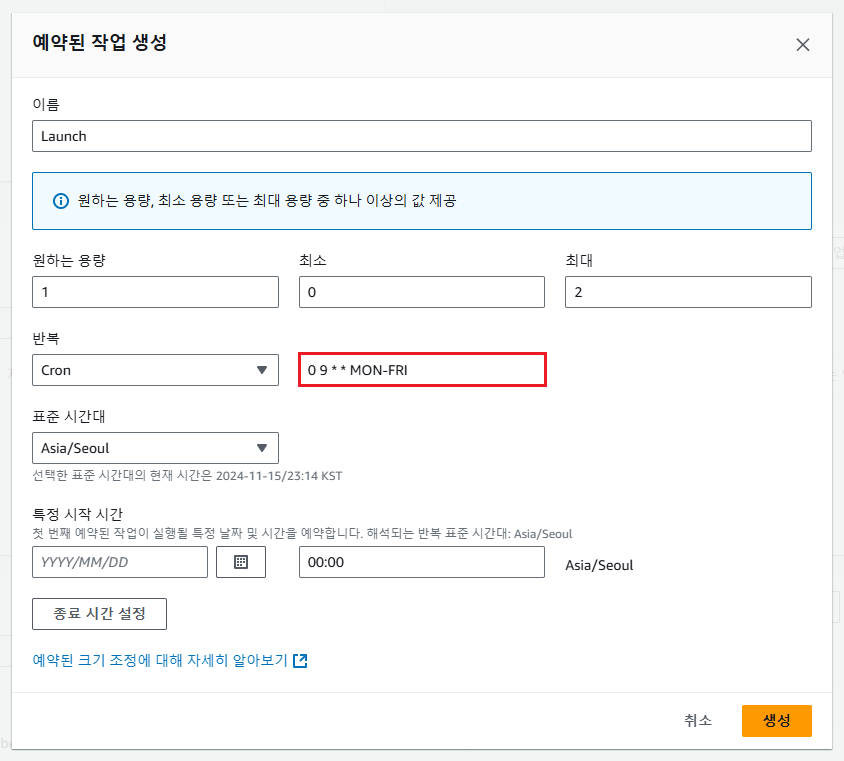
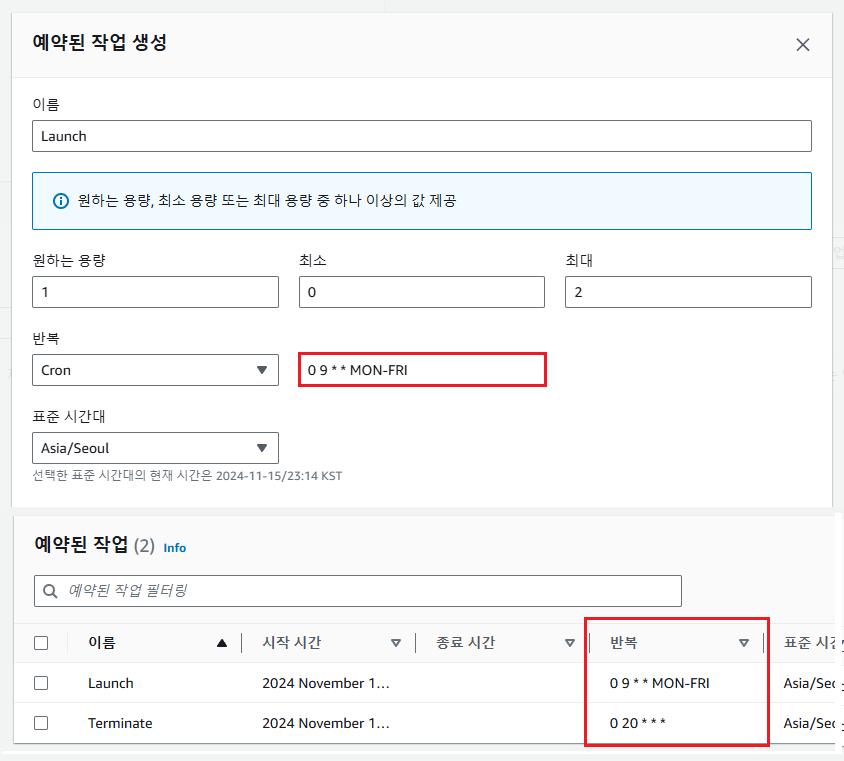
title: Amazon ECS 스케줄링

diff --git a/source/_posts/aws-ecs-scheduling.md b/source/_posts/aws-ecs-scheduling.md
@@ -1,40 +1,44 @@
 ---
 title: Amazon ECS 스케줄링
-date: 2024-11-16T01:00+09:00
+date: 2024-11-18T15:00+09:00
 tags:
 - Amazon ECS
 - Amazon EC2 Auto Scaling
 - Amazon EventBridge Scheduler
 ---
 
-Amazon ECS 클러스터로 운용되는 서비스를 평일 업무 시간에만 실행하고 일과 이외의 시간이나 주말에는 종료하고 싶다. 기존에 EC2 인스턴스로 직접 구성한 스테이징 환경에 대해서는 [AWS Instance Scheduler 솔루션](https://www.youtube.com/watch?v=amL-kQOV0Go)에 따라 CloudFormation 으로 시작하고 종료하도록 만들어둔 것 같다. Amazon ECS 클러스터로 구성되는 오토스케일링 그룹의 EC2 인스턴스와 서비스는 어떻게 조정할 수 있을까?
+Amazon EventBrdige 스케줄러를 사용하여 Amazon ECS 클러스터로 운용되는 서비스와 EC2 인스턴스의 규모를 조정할 수 있다. 예를 들어, [AWS Instance Scheduler 솔루션](https://www.youtube.com/watch?v=amL-kQOV0Go)로 스테이징이나 테스트 환경에 대한 EC2 인스턴스들을 평일 업무 시간에만 실행되도록 시작, 종료 스케줄링을 수행할 수 있다. Amazon ECS의 [예약된 작업](https://docs.aws.amazon.com/ko_kr/AmazonECS/latest/developerguide/tasks-scheduled-eventbridge-scheduler.html)으로는 특정 태스크를 일정 시간에 시작할 순 있으나 종료할 순 없다. 이러한 경우 [Application Auto Scaling](https://docs.aws.amazon.com/ko_kr/AmazonECS/latest/developerguide/service-auto-scaling.html)을 활용해야하고 AWS CLI를 대신하여 일정 기반으로 실행하기 위한 방법이 바로 Amazon EventBridge 스케줄러 이다.
 
 #### 오토스케일링 그룹의 예약된 작업
 
+Amazon EventBridge 스케줄러로 오토스케일링 그룹의 EC2 인스턴스 용량을 조정할 수 있다. 그전에 오토스케일링 그룹에 대한 콘솔에서 자체적으로 제공하는 예약된 작업에 대해서 알아보자. EC2 용량 공급자로 사용중인 오토스케일링 그룹의 자동 확장 기능으로 [예약된 작업을 정의](https://docs.aws.amazon.com/ko_kr/autoscaling/ec2/userguide/ec2-auto-scaling-scheduled-scaling.html)하면 크론 표현식에 의해 평일 업무 시간을 위한 서비스 환경을 실행할 수 있다. 스테이징 또는 테스트 환경은 개발자 또는 테스트 엔지니어가 필요하지 않은 시간에는 종료하여 잉여 시간에 대한 요금을 줄여갈 수 있다.
+
 ![](/images/posts/aws-ecs-scheduling/01.png)
+
+다만, 오토스케일링 그룹 콘솔에서 제공하는 예약된 작업으로 만들어지는 스케줄은 일시적으로 비활성화하지 못하는 단점이 있고, ECS 클러스터에서 EC2 인스턴스에 실행되고 있는 서비스가 있는 경우 ecs-managed-draining-termination-hook 수명 주기 후크의 제한 시간(기본값 3,600초)으로 인해 오토스케일링 그룹의 예약된 작업에 의해 종료되지 않고 기다릴 수 있다. 
+
+##### 🔥 TaskFailedToStart: EMPTY CAPACITY PROVIDER
+
+오토스케일링 그룹의 예약된 작업으로 EC2 인스턴스가 강제로 종료된 경우 서비스로 실행되는 태스크는 새롭게 만들어지며 지속적으로 프로비저닝을 수행할 수 있다. 
+
+#### Amazon EventBridge 스케줄러로 오토스케일링 그룹 조정
+
 ![](/images/posts/aws-ecs-scheduling/02.png)
 
-EC2 용량 공급자로 사용중인 오토스케일링 그룹의 자동 확장 기능으로 [예약된 작업을 정의](https://docs.aws.amazon.com/ko_kr/autoscaling/ec2/userguide/ec2-auto-scaling-scheduled-scaling.html)하면 크론 표현식에 의해 평일 업무 시간을 위한 서비스 환경을 실행할 수 있다. 스테이징 또는 테스트 환경은 개발자 또는 테스트 엔지니어가 필요하지 않은 시간에는 종료하여 잉여 시간에 대한 요금을 줄여갈 수 있다.
-
-> 오토스케일링 그룹의 예약된 작업으로 EC2 인스턴스를 종료하기 위해 용량 업데이트를 수행하는 경우 ECS 클러스터에 의해 실행되고 있는 서비스의 컨테이너가 있다면, 수명 주기 후크의 ecs-managed-draining-termination-hook 로 인해 서비스가 중지될 때까지 해당 EC2 인스턴스를 종료하지 않고 기다립니다. 히트비트 제한 시간을 적당히 줄이도록 합시다.
-
-다만, 오토스케일링 그룹 콘솔에서 제공하는 예약된 작업으로 만들어지는 스케줄은 일시적으로 비활성화하지 못하는 단점이 있다. 그래서 일시적으로 스케줄을 비활성화 해야하는 경우가 있다면 Amazon EventBridge Scheduler를 통해 AWS 서비스로의 예약 일정을 정의하는 것이 좋아보인다.
-
-#### Amazon EventBridge Scheduler 일정 관리
-
-![](/images/posts/aws-ecs-scheduling/03.png)
-
-ECS 클러스터에서 서비스는 일정 기반의 조정을 제공해주지 않고 있으므로 [Amazon EventBridge Scheduler](https://docs.aws.amazon.com/AmazonECS/latest/developerguide/tasks-scheduled-eventbridge-scheduler.html)에서 AWS ECS 서비스 대상으로 UpdateService를 호출하여 특정 클러스터에 존재하는 서비스에 대해 DesiredCount를 설정할 수 있다. 이때, 일정에서 설정하는 크론 표현식(0 9 ? * MON-FRI *)은 오토스케일링 그룹의 예약된 작업과 다르다는 것을 주의해야한다.
+Amazon EventBridge 스케줄러에서 [EC2 Auto Scaling 서비스의 SetDesiredCapacity](https://awscli.amazonaws.com/v2/documentation/api/latest/reference/autoscaling/set-desired-capacity.html) 를 사용하여 오토스케일링 그룹에 대해 원하는 용량을 설정할 수 있다. 만약, EC2 인스턴스를 종료한 상태로 유지하고 싶다면 아래와 같이 원하는 용량이 0 이 되도록 페이로드를 작성하면 된다.
 
 ```json
-{ "Cluster": "mambo-ecs-cluster", "Service": "app-service", "DesiredCount": 0 }
+{
+  "AutoScalingGroupName": "mambo-ecs-cluster-asg",
+  "DesiredCapacity": 0
+}
 ```
 
-#### Amazon EventBridge Scheduler 이벤트 로그
+#### Amazon EventBridge 스케줄러에 대한 이벤트 로그
 
 ![](/images/posts/aws-ecs-scheduling/04.png)
 
-Amazon EventBridge Scheduler의 일정에 의해 ECS 와 EC2 서비스로 보내는 요청에 대한 이벤트를 확인하고자 하는 경우 [CloudTrail의 이벤트 기록에서 확인](https://docs.aws.amazon.com/scheduler/latest/UserGuide/logging-using-cloudtrail.html)해야한다. 아래와 같이 오토스케일링 그룹에 대한 이벤트 대상을 ECS 클러스터 이름으로 잘못 지정해서 ValidationException이 발생한 예시를 볼 수 있다.
+만약, 앞선 Amazon EventBridge 스케줄러에 의해 EC2 Auto Scaling 서비스로 오토스케일링 그룹의 용량을 줄이고자 하는데 이벤트가 동작하는지를 알기 어려운 경우 [CloudTrail의 이벤트 기록에서 확인](https://docs.aws.amazon.com/scheduler/latest/UserGuide/logging-using-cloudtrail.html)해야 한다. 예를 들어, 아래와 같이 오토스케일링 그룹에 대한 이벤트 대상을 ECS 클러스터 이름으로 잘못 지정해서 `ValidationException` 이 발생한 결과를 볼 수 있다.
 
 ```json
 {
@@ -88,9 +92,39 @@ Amazon EventBridge Scheduler의 일정에 의해 ECS 와 EC2 서비스로 보내
 }
 ```
 
+> 아무래도 Amazon ECS 에서 Amazon ECR에 대한 링크를 제공하는 것처럼 Amazon EventBridge 스케줄러 콘솔에서도 Amazon CloudTrail 에 대한 링크를 제공해주면 좋을 것 같습니다.
+
+#### Amazon EventBridge 스케줄러로 서비스 규모 조정
+
+![](/images/posts/aws-ecs-scheduling/03.png)
+
+```json
+{
+  "Cluster": "mambo-ecs-cluster",
+  "Service": "app-service",
+  "DesiredCount": 0
+}
+```
+
+EC2 인스턴스의 시작과 종료에 대한 일정을 구성했다면 이제 [Amazon EventBridge 스케줄러](https://docs.aws.amazon.com/AmazonECS/latest/developerguide/tasks-scheduled-eventbridge-scheduler.html)에서 Amazon ECS 서비스 대상으로 UpdateService를 호출하여 특정 클러스터에 존재하는 서비스에 대해 DesiredCount를 설정하여 서비스에 대한 규모를 조정해보도록 하자.
+
+##### Application Auto Scaling 로 서비스 규모 조정
+
+Amazon ECS 서비스가 아닌 Application Auto Scaling 서비스의 [register-scalable-target](https://docs.aws.amazon.com/ko_kr/cli/latest/userguide/cli_application-auto-scaling_code_examples.html)를 호출하여 동일한 동작을 수행할 수 있다.
+
+```json
+{
+  "ResourceId": "service/mambo-ecs-cluster/app-service",
+  "ScalableDimension": "ecs:service:DesiredCount",
+  "ServiceNamespace": "ecs",
+  "MinCapacity": 0,
+  "MaxCapacity": 0
+}
+```
+
 #### Amazon EventBridge Scheduler IAM 역할
 
-[Amazon ECS EventBridge IAM 역할](https://docs.aws.amazon.com/ko_kr/AmazonECS/latest/developerguide/CWE_IAM_role.html)를 참고하여 Amazon EventBridge Scheduler 에서 Amazon ECS 와 EC2 Auto Scaling 에 대한 권한을 가지는 IAM 역할을 구성한 예시이다. 일정에 대한 이벤트 기록에서 권한 문제가 발생한다면 IAM 역할을 살펴보도록 하자.
+[Amazon ECS EventBridge IAM 역할](https://docs.aws.amazon.com/ko_kr/AmazonECS/latest/developerguide/CWE_IAM_role.html)를 참고하여 Amazon EventBridge 스케줄러에서 Amazon ECS 와 EC2 Auto Scaling 에 대한 권한을 가지는 IAM 역할인 `ecsEventsRole` 을 구성한 예시이다. 일정에 대한 이벤트 기록에서 권한 문제가 발생한다면 IAM 역할의 신뢰 관계와 연결된 정책을 살펴보도록 하자.
 
 ##### 신뢰할 수 있는 엔티티
 
@@ -119,8 +153,6 @@ Amazon EventBridge Scheduler의 일정에 의해 ECS 와 EC2 서비스로 보내
 - AmazonECS_FullAccess
 - AmazonEventBridgeSchedulerFullAccess
 - AutoScalingFullAccess
-
-> 실제로 운영하는 목적이 아닌 개인적인 궁금증에 의해 진행해본 것으로 FullAccess 정책을 활용했습니다. 또한, Amazon EventBridge Scheduler의 일정에 따라 원하는 상태로 조정이 가능하지만 클러스터와 서비스 수가 많아지는 경우 개별 등록해야만 하므로 생각보다 불편함이 있지 않을까 싶습니다.
 
 #### 참고 링크
 
